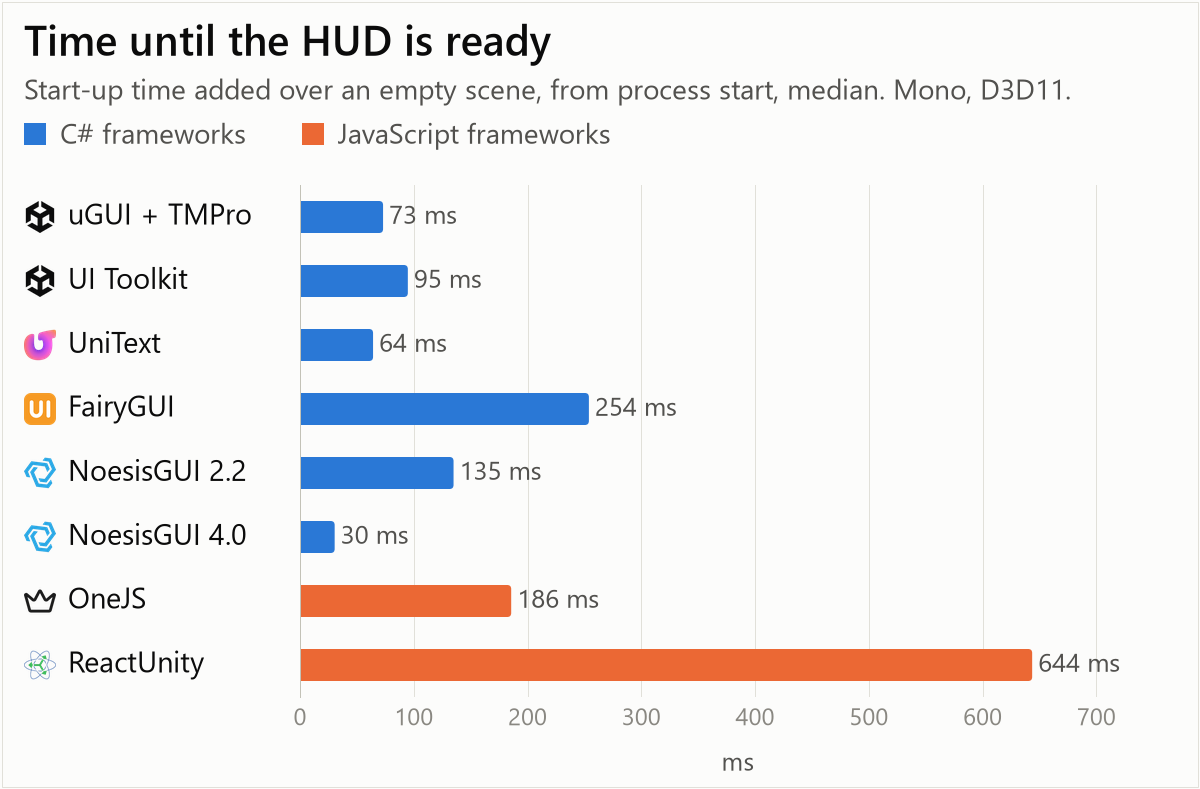
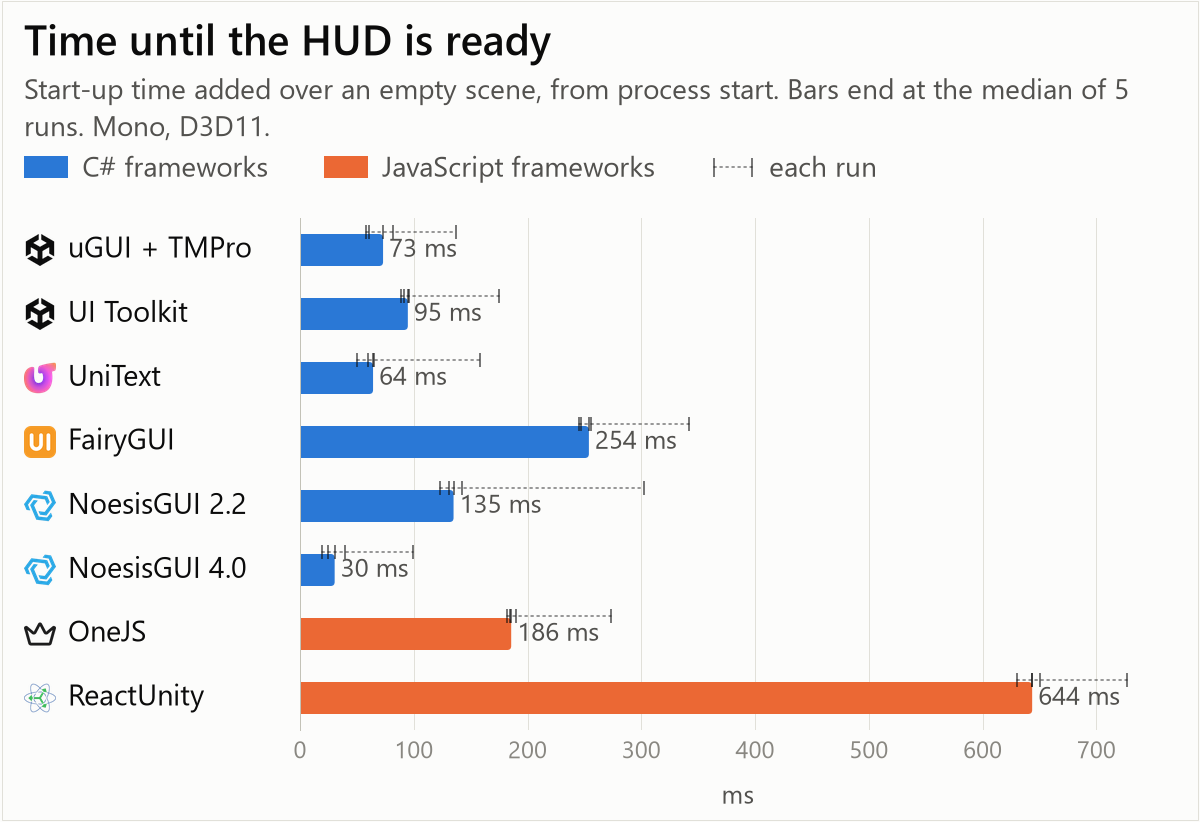
league spartan

diff --git a/src/styles/shell.css b/src/styles/shell.css
@@ -5,11 +5,12 @@
    its own main column.
    ========================================================================== */
 
-/* Combo Counter's display face (from the package's Editor/UI/Fonts), subset to Latin. */
+/* Combo Counter's display face (the package's Editor/UI/Fonts): League Spartan ExtraBold with lowercase drawn as
+   capitals, SIL OFL 1.1 (public/fonts/LeagueSpartan-OFL.txt). One weight, so 400-800 all map to it unsynthesised. */
 @font-face {
-  font-family: 'LEMON MILK';
-  src: url('/fonts/lemonmilk-bold.woff2') format('woff2');
-  font-weight: 400 700;
+  font-family: 'League Spartan Caps';
+  src: url('/fonts/leaguespartancaps-extrabold.woff2') format('woff2');
+  font-weight: 400 800;
   font-display: swap;
 }
 

diff --git a/src/packages/combo-counter/cc.css b/src/packages/combo-counter/cc.css
@@ -26,7 +26,7 @@
   --cc-warning: #ffb627;
   --cc-navy: #24459e;
 
-  --cc-display: 'LEMON MILK', 'Arial Black', var(--font-sans);
+  --cc-display: 'League Spartan Caps', 'Arial Black', var(--font-sans);
 
   /* Text outlines matching the demo HUD (ComboCounter.uss): 3px outline + hard drop. */
   --outline-red: -2px -2px 0 #d91129, 2px -2px 0 #d91129, -2px 2px 0 #d91129, 2px 2px 0 #d91129, 0 -2.5px 0 #d91129,

diff --git a/src/styles/plates.css b/src/styles/plates.css
@@ -59,7 +59,7 @@
 .plate--combo-counter .plate__name {
   flex: 1;
   min-width: 0;
-  font: 400 14.5px/1 'LEMON MILK', 'Arial Black', sans-serif;
+  font: 400 14.5px/1 'League Spartan Caps', 'Arial Black', sans-serif;
   letter-spacing: 0.01em;
   text-transform: uppercase;
   white-space: nowrap;

diff --git a/src/content/blog/ui-framework-benchmark/post.md b/src/content/blog/ui-framework-benchmark/post.md
@@ -1,27 +1,27 @@
 ---
-title: "I ran the same Unity HUD on eight UI frameworks. Here are the numbers."
-description: "uGUI, UI Toolkit, UniText, FairyGUI, NoesisGUI 2.2 and 4.0, OneJS and ReactUnity, measured with the same HUD on Mono and IL2CPP, D3D11, D3D12 and Vulkan."
+title: "I built the same HUD in 8 Unity UI frameworks & benchmarked them. Here are the numbers."
+description: "uGUI, UI Toolkit, UniText, FairyGUI, NoesisGUI 2.2 & 4.0, OneJS and ReactUnity on Mono, IL2CPP, D3D11, D3D12 and Vulkan, 5 runs median."
 date: 2026-11-25
 ---
 
-Few years ago, I made [Combo Counter](https://assetstore.unity.com/packages/tools/gui/combo-counter-system-217635), a unity asset which started out on uGUI. Over the last few months I ported its demo HUD to every UI framework I could use for free. Once I had all the demos working, it seemed a waste to not benchmark them: same HUD, same fonts, same C# component driving it, and only the UI framework changes which the HUD is set up in. You can see the HUD itself on the asset's store page.
+A few years ago, I made a simple combo-counter, player-feedback asset for unity using uGUI. Over the last few months, I've been updating [Combo Counter](https://assetstore.unity.com/packages/package/1830129) to work on Unity 6+ and I ported its demo HUD to UI toolkit seeing as to how it is maturing... but then I thought why the hell not and I rebuilt the same UI on every framework I could find for free. Once I had all the demos in a working state, it seemed a waste to not benchmark them. The same output, same fonts, same main C# system driving it, and only the UI framework changes behind the HUD.
 
-Each framework has its own design workflow, and I won't get into that here. This post only looks at what each one costs at runtime in a packaged build.
+// insert HUD Image
+
+Each of these UI frameworks has its own design workflow, which I won't get into that here. This post is strictly about what each one costs at runtime in a packaged build since I *am* a nerd for optimizations after all.
 
 **TL;DR**
 
-- The six C# frameworks are all cheap, at 0.11 ~ 0.21 ms per frame, about 1% of a 60 fps frame.
-- The two JavaScript frameworks cost 30 ~ 40 times as much, and every hit on ReactUnity costs about a whole 60 fps frame.
+- The 6 C# frameworks are all cheap, at 0.11 ~ 0.21 ms per frame while animating, about 1% of a 60 fps frame.
+- The 2 JavaScript frameworks cost 30 ~ 40 times as much, and every hit on ReactUnity costs about a whole 60 fps frame.
 - NoesisGUI allocates garbage on every frame, even when nothing changes.
-- IL2CPP helps the JavaScript frameworks and nobody else. Vulkan halves their GPU time.
-- High code stripping saves about 15 MB, but four of the eight HUDs need a `link.xml` to survive it.
-- Overall ranking: uGUI + TMPro, UniText and UI Toolkit at the top, the two JavaScript frameworks at the bottom.
+- IL2CPP only helps the JS frameworks. Vulkan also halves their GPU time.
+- High code stripping saves about 15 MB from all builds, but four of the eight HUDs need a `link.xml` to survive it.
+- Overall ranking: The native unity frameworks uGUI & UI Toolkit come out at the top, & the 2 JS frameworks at the bottom.
 
 ## The Test
 
-Each framework's scene is built into its own Windows build. A run warms up, sits idle with the HUD visible for 5 seconds, then animates combo hits for 30 seconds. That last phase is what the graphs call "while animating". Every number below is what the HUD adds on top of an empty scene with just the camera, so it shows the framework's cost, not Unity's. Each player ran 5 times on [Mono, IL2CPP] and on [D3D11, D3D12, Vulkan] and I use the median. Frame rate is uncapped. The machine is an i5-13600KF with an RTX 4070 Ti SUPER on Windows 11, running Unity 6000.4.12f1 with URP.
-
-Building every player and running all 390 runs took around 4 hours 46 minutes overnight with no background applications on a debloated windows.
+I made a separate build for each framework. A benchmark run warms up for 5 seconds, it sits idle with the HUD visible, then it animates combo hits for 30 seconds. Every number below is what the HUD adds on top of an empty scene with just the camera, so it shows the framework's cost, not the whole builds. Each player ran 5 times on [Mono, IL2CPP] and on [D3D11, D3D12, Vulkan] and I use the median. The frame rate is uncapped. Building every player and running all 390 runs took ~ 5 hours overnight with no background applications on a debloated windows.
 
 The frameworks:
 
@@ -34,78 +34,70 @@ The frameworks:
 - **[OneJS](https://github.com/Singtaa/OneJS)**, GitHub head from November 2026, renders through UI Toolkit
 - **[ReactUnity](https://github.com/ReactUnity/core)**, GitHub head from November 2026, renders through uGUI
 
+System Specs: i5-13600KF | 32GB DDR4 | RTX 4070 Ti SUPER | Windows 11 26H2 | Unity 6000.4.12f1 | URP
+
 Unless a graph says otherwise, it shows an IL2CPP release build on D3D11, since that's what most Windows games ship with.
 
 ## CPU: The C# Frameworks Are Cheap, the JavaScript Ones Are Not
 
 ![The C# frameworks add a sliver of main-thread time; OneJS and ReactUnity add 30 ~ 40 times as much, and ReactUnity's slowest frames exceed a 60 fps frame](images/01-cpu-under-load.png)
 
-The JavaScript frameworks, out of the gate, cost drastically more. OneJS costs about 30 times what uGUI does, and ReactUnity about 40 times. ReactUnity runs at under 200 fps in this test, so about one frame in 19 has a hit in it, and its 99th percentile lands on those frames. Each hit costs ReactUnity about a full 60 fps frame, which you would see as a stutter. OneJS spreads its cost evenly across frames, so its hits barely stand out.
+The JavaScript frameworks, out of the gate, cost drastically more. OneJS costs about 30x what uGUI does, and ReactUnity about 40x. ReactUnity runs at under 200 fps while animating but at ~2700fps while idle, while an empty scene is ~3500fps and the C# frameworks run at ~2100fps - ~3300fps at idle and ~2000fps - ~2700fps while animating. Each hit costs ReactUnity about a full 60 fps frame, which you would see as a stutter. OneJS spreads its cost evenly across frames, so its hits barely stand out.
 
 ![Up close, uGUI, UI Toolkit and NoesisGUI 4.0 are within noise of each other; FairyGUI is the only one that keeps costing when idle](images/02-cpu-closeup.png)
 
-Up close, uGUI, UI Toolkit and NoesisGUI 4.0 are a three-way tie: the gaps between them are smaller than the run-to-run noise of the empty scene. UniText and NoesisGUI 2.2 cost about half as much again, and FairyGUI the most.
-
-The idle dots are the interesting part. Every framework except FairyGUI is nearly free once the HUD stops changing, including both JavaScript frameworks. FairyGUI keeps doing most of its work whether or not anything changes.
+Up close, uGUI, UI Toolkit and NoesisGUI 4.0 are almost a 3-way tie, the gaps between them are smaller than the run-to-run noise of the empty scene. FairyGUI costs the most. The idle dots are the interesting part. Every framework except FairyGUI is nearly free once the HUD stops changing, including both JS frameworks. FairyGUI keeps doing work whether or not anything is changing in the scene.
 
 ## Garbage: NoesisGUI Allocates Every Frame
 
 ![uGUI, UniText and FairyGUI allocate nothing when idle; NoesisGUI allocates kilobytes every frame; the JavaScript frameworks allocate hundreds of kilobytes while animating](images/03-allocations.png)
 
-Allocations were measured in development players, the only builds where Unity reports them exactly, and on Mono, because IL2CPP development players add a flat 64 bytes per frame to every HUD scene.
+Allocations are measured in dev builds, the only builds where Unity actually reports them, and on Mono because IL2CPP dev builds add a flat 64 bytes per frame to every HUD scene.
 
-uGUI, UniText and FairyGUI allocate nothing at all while idle. UI Toolkit allocates a little, and so does OneJS, which renders through it.
-
-NoesisGUI is the surprise: it allocates on every frame, even idle, and the garbage collector runs hundreds of times in 30 seconds. That looks worse than it is, because the frame rate here is uncapped: at 60 fps, NoesisGUI 4.0 would create about 230 KB of garbage per second.
-
-The JavaScript frameworks allocate in proportion to the work, not the frame rate: roughly 57 MB (OneJS) and 93 MB (ReactUnity) of garbage per second while animating.
+uGUI, UniText and FairyGUI allocate nothing at all while idle. UI Toolkit allocates a little, and so does OneJS, which renders through it. NoesisGUI is the surprise: it allocates on every frame, even idle, and the garbage collector runs hundreds of times in 30 seconds. That looks worse than it actually is though, because the frame rate here is uncapped: at 60 fps, NoesisGUI 4.0 would create about 230 KB of garbage per second. The JS frameworks allocate in proportion to the work, not the frame rate: roughly 57 MB (OneJS) and 93 MB (ReactUnity) of garbage per second while animating.
 
 ## GPU and Draw Calls
 
 ![The JavaScript frameworks add the most GPU time; FairyGUI makes the most draw calls; NoesisGUI draws outside Unity's counters](images/04-rendering.png)
 
-On the GPU, the JavaScript frameworks are the outliers again. Among the C# frameworks, only FairyGUI stands out, and it also makes by far the most draw and SetPass calls for the same HUD. UI Toolkit batches best: OneJS, which renders through it, gets the same single SetPass call. NoesisGUI draws with its own renderer, so Unity's call counters don't see it at all.
+On the GPU, the JS frameworks are the outliers again. Among the C# frameworks, only FairyGUI stands out, and it also makes by far the most Draw calls and SetPass calls. UI Toolkit batches best. OneJS, which renders through it, gets the same single SetPass call. NoesisGUI draws with its own renderer, so Unity's call counters don't see it at all.
 
 ## Does the Backend or the Graphics API Change Anything?
 
 ![IL2CPP makes no measurable difference to the C# frameworks and makes the JavaScript frameworks faster](images/05-il2cpp-vs-mono.png)
 
-For the C# frameworks, Mono and IL2CPP are indistinguishable. Every difference is inside the noise, on every graphics API. IL2CPP only helps the JavaScript frameworks, and ReactUnity the most.
+For the C# frameworks, Mono and IL2CPP are indistinguishable. Every difference is inside the noise, on every graphics API. IL2CPP only helps the JS frameworks & ReactUnity the most.
 
 ![D3D12 adds a little CPU time to most frameworks and multiplies NoesisGUI 4.0's GPU time; Vulkan halves the GPU time of both JavaScript frameworks](images/06-graphics-apis.png)
 
-Switching from D3D11 costs a little CPU on most frameworks, though the changes are small in absolute terms. Two results stand out:
+Switching from D3D11 to D3D12 or Vulkan costs a little CPU on most frameworks. Though the changes are small in absolute terms, two results stand out:
 
 - **NoesisGUI 4.0 needs about nine times its D3D11 GPU time on D3D12, +815%.** If you ship NoesisGUI on D3D12, check your GPU timings.
 - **Vulkan halves the GPU time of both JavaScript frameworks.**
-
-NoesisGUI 2.2 can't be installed next to 4.0, so I measured it in a separate set of builds against its own empty scene. It renders on D3D11 only.
 
 ## Start-up Time and Build Size
 
 ![ReactUnity takes about two thirds of a second longer to show its HUD; NoesisGUI 4.0 is the quickest](images/07-startup.png)
 
-Start-up time comes from the Mono players, because IL2CPP players don't report when the process started. ReactUnity is the only framework you'd notice, at about two thirds of a second, and it spends that time before its first frame, most likely starting its JavaScript engine. FairyGUI gets its first frame out as fast as the others, then takes a while longer before the HUD is ready.
+Start-up time comes from the Mono builds, because IL2CPP builds don't report when the process starts. ReactUnity is the only framework you'd notice a delay in the startup of at about 0.67s. It spends that time before its first frame, most likely starting its JS engine. FairyGUI gets its first frame out as fast as the others, then takes a while longer before the HUD is ready.
 
-![Fonts make up most of each scene's size; NoesisGUI 4.0 and OneJS carry the largest libraries](images/08-build-size.png)
+![UniText and NoesisGUI ship their fonts almost for free; the TextMesh Pro and UI Toolkit frameworks carry about 4.6 MB of baked font atlases; OneJS adds the most](images/08-build-size.png)
 
-The fonts weigh more than most frameworks do. FairyGUI and uGUI need less than a megabyte of libraries, while NoesisGUI 4.0 and OneJS need about eight. UniText and ReactUnity include uGUI, and OneJS includes UI Toolkit, because they render through them.
+Each build only ships the fonts its own framework uses. TMPro and UI Toolkit bake the font into SDF atlases ahead of time, and the demo has 4 of them (one per combo tier, plus the buttons) at ~1.2MB each. So uGUI, UI Toolkit, FairyGUI, OneJS & ReactUnity all carry ~4.6MB of fonts. UniText and NoesisGUI ship the 57KB font file instead and rasterize the glyphs at runtime, which makes UniText the smallest build here at 3.6MB. For libraries, uGUI & FairyGUI need less than 1MB, while NoesisGUI 4.0 & OneJS need ~8MB. UniText and ReactUnity include uGUI, and OneJS includes UI Toolkit, because they render through them.
 
-The graph uses the Mono build, where each framework's code sits in its own files. IL2CPP compiles everything into one `GameAssembly.dll`. There, the JavaScript frameworks add another 8 ~ 9 MB of generated code, and the C# frameworks about 1.6 MB each.
+This graph also uses the Mono build, where each framework's code sits in its own files. IL2CPP compiles everything into one `GameAssembly.dll`. where the JS frameworks add another 8~9MB of generated code, and the C# frameworks ~1.6MB each.
 
-Building the IL2CPP players with High managed stripping instead of Minimal made every player about **15 MB smaller**, and runtime cost didn't change.
-
-Out of the box, though, four of the eight HUDs broke, because they reach code through reflection that the linker can't see.
+Building the IL2CPP players with High managed stripping instead of Minimal made every player about **15 MB smaller**, and runtime cost didn't change. Though out of the box, 4 out of the 8 HUDs broke, because they reach code through reflection that the linker can't see.
 
 ## Scorecard and Overall Ranking
 
 ![uGUI + TMPro, UniText and UI Toolkit score highest overall; the two JavaScript frameworks score lowest](images/09-scorecard.png)
 
-To pull everything together, I scored each framework from 1 to 10 on every measurement above, using the same numbers as the graphs:
+To pull everything together, I scored each framework from 1 to 10 on every metric above, using the same numbers as the graphs:
 
-- **Scale:** the best framework on a measurement gets 10 and the worst gets 1, with the rest placed on a log scale between them, because the values span orders of magnitude.
-- **Noise:** the 0.04 ms noise is added to every time before scoring. Without it, an idle time of 0.010 ms would score as three times better than 0.031 ms, when both are inside the noise.
-- **Weights:** CPU time while animating counts three times, hitches and garbage twice, and everything else once, because frame time is what players feel first. With equal weights, the order is the same.
+- **Scale:** the best framework on a metric gets 10 and the worst gets 1, with the rest placed on a log scale between them, because the values span orders of magnitude.
+- **Noise:** the 0.04ms noise is added to every time before scoring. Without it, an idle time of 0.01ms would score as 3x better than 0.031 ms, when both are inside the noise.
+- **Weights:** CPU time while animating counts 3 times, hitches and garbage twice, and everything else once, because frame time is what players feel first. With equal weights, the order is the same.
 - **Missing values:** NoesisGUI's draw calls can't be measured, so they're left out of its average.
 
 The overall ranking, from best to worst:
@@ -119,33 +111,21 @@ The overall ranking, from best to worst:
 7. OneJS, 3.4
 8. ReactUnity, 1.9
 
-uGUI wins on the measurements with the most weight: it has the lowest CPU time while animating and the least garbage. It loses ground on idle CPU time, where UniText and UI Toolkit do better, and on start-up, where NoesisGUI 4.0 is more than twice as fast. NoesisGUI 4.0 is held back by its garbage and its build size, and FairyGUI by its idle cost and draw calls. The top three are within 0.6 points of each other, so for a HUD like this any of them is a safe choice. The ranking only covers runtime cost, not workflow, and it reflects one small HUD written by someone who knows uGUI best.
+**uGUI + TMPro wins!** It has the lowest CPU time while animating and the least garbage. It loses ground on idle CPU time, where UniText and UI Toolkit do better, on start-up, where NoesisGUI 4.0 is more than twice as fast, and on build size, where UniText's runtime fonts make it the smallest. NoesisGUI 4.0 is held back by its garbage and its libraries, and FairyGUI by its idle cost and draw calls. The top three are within ~0.5 points of each other, so for a HUD like this any of them is a safe choice. The ranking only covers runtime cost, not workflow, and it reflects one small HUD written by someone who knows uGUI best.
 
 ## What I Take from It
 
-The JavaScript frameworks are almost free until something changes, and expensive once it does. My guess is that the cost comes from pushing changes across the C#/JavaScript boundary and re-rendering, plus the garbage that creates. For a menu that changes when you click, that's fine, and what you get in return is a web-style workflow. For a HUD that animates every frame, they're the most expensive options here by a wide margin.
+The JS frameworks are almost competitive until something starts animating. My guess is that the cost comes from pushing changes across the C#/JS boundary and re-rendering, plus the garbage that is created in the process. For a menu that changes when you click, that's fine, and what you get in return is a full Web Dev workflow. For a HUD that animates every frame, they're the most expensive options here by a wide margin.
 
-For a small HUD, choosing between uGUI, UI Toolkit and NoesisGUI 4.0 on performance is pointless. Choose on workflow.
-
-Neither the backend nor the graphics API changes the ranking. These settings won't rescue a slow choice or ruin a fast one.
+For a small HUD, choosing between uGUI, UI Toolkit, UniText & NoesisGUI 4.0 on performance is pointless, choose the one that best fits your workflow. Neither the backend nor the graphics API change that ranking.
 
 ## Caveats and Help Wanted
 
-- This is one small HUD: a counter, a handful of popups and some buttons. It says nothing about scroll lists, layout-heavy screens or thousands of elements.
-- I wrote all eight integrations, and I know uGUI best. If you know one of these frameworks well and think I'm holding it wrong, tell me and I'll re-run it.
+- This is one small HUD: a counter, a handful of animating popups and some buttons. It says nothing about scroll lists, layout-heavy screens or thousands of elements.
+- I wrote all eight integrations, and I know uGUI best. If you know one of these frameworks well and think I'm holding it wrong, tell me and I'll update it.
 - The frame rate was uncapped, at thousands of frames per second for the C# frameworks, so anything allocated per frame looks worse than it would at 60 fps.
-- It's one Windows machine. If you can run it on Linux, macOS or a weaker GPU, send me a message!
+- It's one Windows machine. If you can run it on Linux, macOS or a different GPU, send me a message!
 
-## Full Method
+Logos are obviously trademarks of their owners and are used only to identify each framework only.
 
-- **Phases:** each run is a 5-second warm-up with hits, 5 seconds idle with the HUD visible, then 30 seconds of exactly 10 hits per second. The window is 1920x1080 with vSync off and no frame-rate cap.
-- **Matrix:** Mono and IL2CPP release players on D3D11, D3D12 and Vulkan, 5 runs each. Development players of both backends on D3D11 for allocations. IL2CPP players at High stripping, 3 runs. The order of the scenes rotates between runs.
-- **Builds:** Mono with code stripping disabled, IL2CPP at Minimal (the lowest it allows) with the Release compiler configuration. Uncompressed StandaloneWindows64 players.
-- **Measurements:** main-thread and GPU time come from Unity's FrameTimingManager, draw and SetPass calls from the render counters, and allocations from the "GC Allocated In Frame" counter.
-- **Noise:** the empty scene's own main-thread time varied by up to about 0.03 ms between runs, so I treat any difference under 0.04 ms as noise.
-- **NoesisGUI 2.2:** built as a separate set with its own empty scene and the same settings, on D3D11 only.
-- **Machine:** i5-13600KF, 32 GB DDR4-3200, RTX 4070 Ti SUPER, Windows 11 26H2, Unity 6000.4.12f1 with URP.
-
-Logos are trademarks of their owners and are used only to identify each framework.
-
-Cheers!
+Have a good one. Cheers!

diff --git a/src/content/combo-counter/Documentation.md b/src/content/combo-counter/Documentation.md
@@ -137,7 +137,7 @@ A standalone UI system with its own batched renderer, from [fairygui/FairyGUI-un
 
 `FairyGUITextStyle` is a ScriptableObject with face colour, outline, hard shadow, faux bold and letter spacing.
 
-- **Counter:** keeps the bridge's **Counter Style** at every level (empty uses the yellow/red of level 3). Turn on **Tier Styles On Counter** to restyle it per level.
+- **Counter:** with the combo counter's **Follow Levels** on, it takes each level's **FairyGUI Style**. With it off, it keeps the bridge's **Counter Style** at every level (empty uses the yellow/red of level 3).
 - **Popups:** use the level's **FairyGUI Style**. Without one, the built-in tier colours of `ComboCounter.uss` apply.
 - **Outline width** works like UI Toolkit's `-unity-text-outline-width`: relative to the font, so smaller text gets a thinner outline.
 
@@ -350,12 +350,12 @@ Each world demo is saved next to its UI demo. `WorldDemoSceneBuilder` builds it 
 All demos share `Demos/Assets/`:
 
 - `Combo Config.asset` and `Level_01..03.asset`: levels at 0 / 15 / 35 hits with ×1 / ×2 / ×4 score, each with its words, fonts, FairyGUI style and UniText font stack and appearance.
-- The LEMON MILK font as TMP (`Font_1..3`, `ButtonFont`), UI Toolkit TextCore (`*_TextCore`) and Noesis (`LEMONMILK-Bold.otf`) assets, plus the ★ fallback (`StarFallback`).
+- The League Spartan Caps font (League Spartan ExtraBold with lowercase drawn as capitals; SIL Open Font License) as TMP (`Font_1..3`, `ButtonFont`), UI Toolkit TextCore (`*_TextCore`) and Noesis (`LeagueSpartanCaps-ExtraBold.ttf`) assets.
 - `Button.png`, the pill button sprite, and `EmojiSprites/`, the sprites on the demo buttons and popups.
 
 Framework-specific assets (XAML, USS/UXML, TSX, UniText and FairyGUI styles) stay in each demo's folder.
 
-**Moving or renaming demo assets.** Move them in the Project window, or keep each `.meta` file with its asset, and nothing breaks: scenes and assets reference each other by GUID, the Setup window finds package assets by GUID (`ComboDemoAssets`), USS/UXML URLs carry the asset's GUID, and XAML font paths are rewritten when files move in the Editor. The package tests (`PackageReferenceTests`) fail if any of these references stops resolving.
+**Moving or renaming demo assets.** Move them in the Project window, or keep each `.meta` file with its asset, and nothing breaks: scenes and assets reference each other by GUID, the Setup window finds package assets by GUID (`ComboDemoAssets`), USS/UXML URLs carry the asset's GUID, and XAML font paths are rewritten when files move in the Editor.
 
 ### Scene layout and logging
 
@@ -439,6 +439,7 @@ combo.HitCombo(new Vector2(Screen.width * 0.5f, 200f));   // screen position
 | `IsCounting` | `bool` | True while the combo timer runs. |
 | `Backend` | `ComboBackend` | The selected backend (settable). |
 | `Config` | `ComboConfig` | The config asset, or null for the built-in defaults (settable). |
+| `CounterFollowsLevels` | `bool` | Whether the counter takes each level's look (settable; see `counterFollowsLevels`). |
 
 ### Events
 
@@ -488,6 +489,7 @@ The first `HitCombo` or `BreakCombo` on a backend that is not ready logs one war
 | Field | Default | Meaning |
 |---|---|---|
 | `counterFormat` | `{0}` | Counter text; `{0}` is the hit count (for example `{0} HITS!`). |
+| `counterFollowsLevels` | on | **Follow Levels** in the Inspector. On: the counter takes each level's look: the `LevelConfig` counter font on uGUI (TMP or legacy Text) and UI Toolkit (plus the level's USS class), the level's **FairyGUI Style** or UniText font stack and appearance, and the tier colours on NoesisGUI, OneJS and ReactUnity. Off: the counter keeps the look it has in the scene at every level. Popups follow the level either way. The demo UI scenes turn it off; the world demos keep it on. |
 | `popupOffset` | zero | Offset of the default popup stage from the counter (popup template) position. |
 | `popupSpread` | zero | Random ± X/Y jitter of default-stage popups, in reference pixels. |
 | `audioSource` | none | Plays the levels' sounds. Empty uses an `AudioSource` on the same GameObject, if any. |
@@ -522,7 +524,7 @@ Create one with **NEW ASSET** or **Create > Combo Counter > Level Configuration*
 |---|---|
 | `levelBoundaryLower` | Combo count at which this level starts. |
 | `scoreMultiplier` | Score multiplier while this level is active. |
-| `hitSound`, `levelUpSound` | Optional sounds for a hit at this level and for reaching it. |
+| `hitSound`, `levelUpSound`, `breakSound` | Optional sounds for a hit at this level, for reaching it, and for the combo breaking (timeout or `BreakCombo`) while at it. |
 | `words` | Words shown by popups at this level, one picked at random. Empty shows no word. |
 | `popupScale` | Popup size at this level (1 = normal). |
 | `counterFont`, `popupFont` | uGUI: TextMesh Pro fonts at this level. |

diff --git a/src/content/combo-counter/CHANGELOG.md b/src/content/combo-counter/CHANGELOG.md
@@ -14,9 +14,10 @@ A ground-up rewrite. Version 1.x was a folder under `Assets/ComboSystem` with tw
 - **`BreakCombo()`** and **`ResetScore()`**; `BreakCombo` keeps the score.
 - **Combo timer:** the combo breaks by itself when no hit lands within `comboTimeout` (`RemainingTimer`, `RemainingTimerNormalized`, `IsCounting`). In 1.x the counter only reset when its shrink animation finished or `Break()` was called.
 - **Gradual decay:** optionally removes a few hits per timeout instead of breaking the combo (`gradualDecay`, `decayAmount`).
+- **Counter level look** (`CounterFollowsLevels`, **Follow Levels** in the Inspector, on by default): the hit counter takes each level's counter font, USS class or framework style, on every backend. Turn it off to keep the counter's scene look at every level.
 - **Scoring** with per-level multipliers (`Score`, `CurrentMultiplier`), and the live state `Count` and `CurrentLevel`.
 - **Events:** `OnComboHit`, `OnLevelUp`, `OnComboBroken`, `OnComboTimerUpdated`, `OnScoreChanged` and `OnPopupSpawned`, as C# events and UnityEvents.
-- **Sounds:** a hit sound and a level-up sound per level.
+- **Sounds:** a hit sound, a level-up sound and a break sound per level.
 - **Several popups at once:** popups are pooled (`UnityEngine.Pool`) and each animates on its own. 1.x had one popup text that every new word restarted.
 - **`ComboConfig`** holds all timing, scoring and animation settings, world popup sizing and the level list; a component with no config uses built-in defaults.
 - **`LevelConfig`** gained a score multiplier, sounds, a `words` list, legacy Text and UI Toolkit fonts, a USS class, and named slots for a FairyGUI style and a UniText font stack and appearance.
@@ -24,7 +25,7 @@ A ground-up rewrite. Version 1.x was a folder under `Assets/ComboSystem` with tw
 - **UI Toolkit:** the `ComboCounterElement` control (`[UxmlElement]`, UI Builder) and a ready UXML/USS HUD.
 - **Combo Counter Setup window** (**Tools > Combo Counter Setup**): shows which UI frameworks are installed, installs them where possible, adds a ready combo counter to the open scene, and opens or plays each demo. It replaces the 1.x tween setup window.
 - **Framework update check** in the Setup window: each installed framework card shows an `↑ v<latest>` chip when a newer version exists (checked once a day, or with **CHECK FOR UPDATES**). Clicking it re-adds OneJS and ReactUnity through the Package Manager, or explains how to update UniText, FairyGUI and NoesisGUI 4.0 by hand. Built-in uGUI / UI Toolkit and the discontinued NoesisGUI 2.2 are not checked.
-- **Demo scenes** for every framework, plus a **World Demo** for each (**WORLD DEMO** on its Setup card): a first-person level that pops words and sprites up around the aim point or at the crosshair. The OneJS demo is generated into `Assets/ComboCounter/OneJS Demo` on first use, because OneJS only loads Panel Settings from `Assets/`. NoesisGUI 2.2 and 4 demos have an Edit Mode preview (URP). Every demo shows the same HUD: the hit counter stays yellow and red at every level, and the word popups change colour per level.
+- **Demo scenes** for every framework, plus a **World Demo** for each (**WORLD DEMO** on its Setup card): a first-person level that pops words and sprites up around the aim point or at the crosshair. The OneJS demo is generated into `Assets/ComboCounter/OneJS Demo` on first use, because OneJS only loads Panel Settings from `Assets/`. NoesisGUI 2.2 and 4 demos have an Edit Mode preview (URP). Every demo shows the same HUD: the word popups change colour per level; the hit counter stays yellow and red in the UI demos and changes with the level in the world demos. The demo levels play hit, level-up and break sounds from Juhani Junkala's Essential Retro Video Game Sound Effects Collection (CC0).
 - **Edit Mode tests**, plus a reference fixer that keeps USS URLs and XAML font and image paths valid when package files move.
 - **Agent skill for AI coding agents:** `Skills~/combo-counter/` is an open Agent Skills folder (`SKILL.md` plus `references/`) covering the API, the backends and the usual mistakes, and `AGENTS.md` / `CLAUDE.md` at the package root point to it. Copy the folder to a project's `.agents/skills/` or `.claude/skills/` so agents such as Claude Code, Codex, Cursor, Gemini CLI and GitHub Copilot find it.
 
